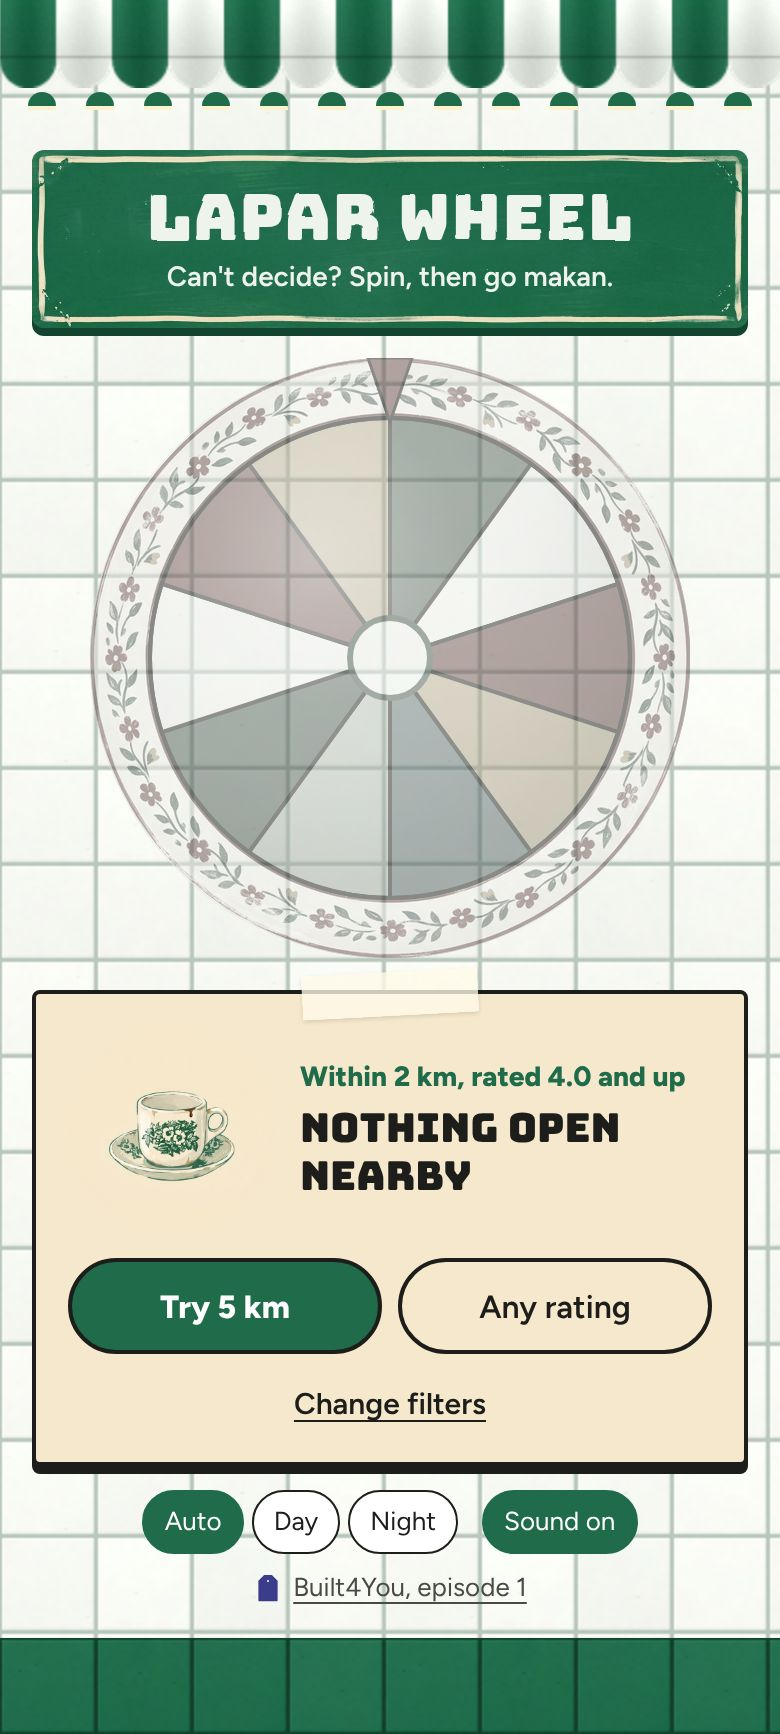
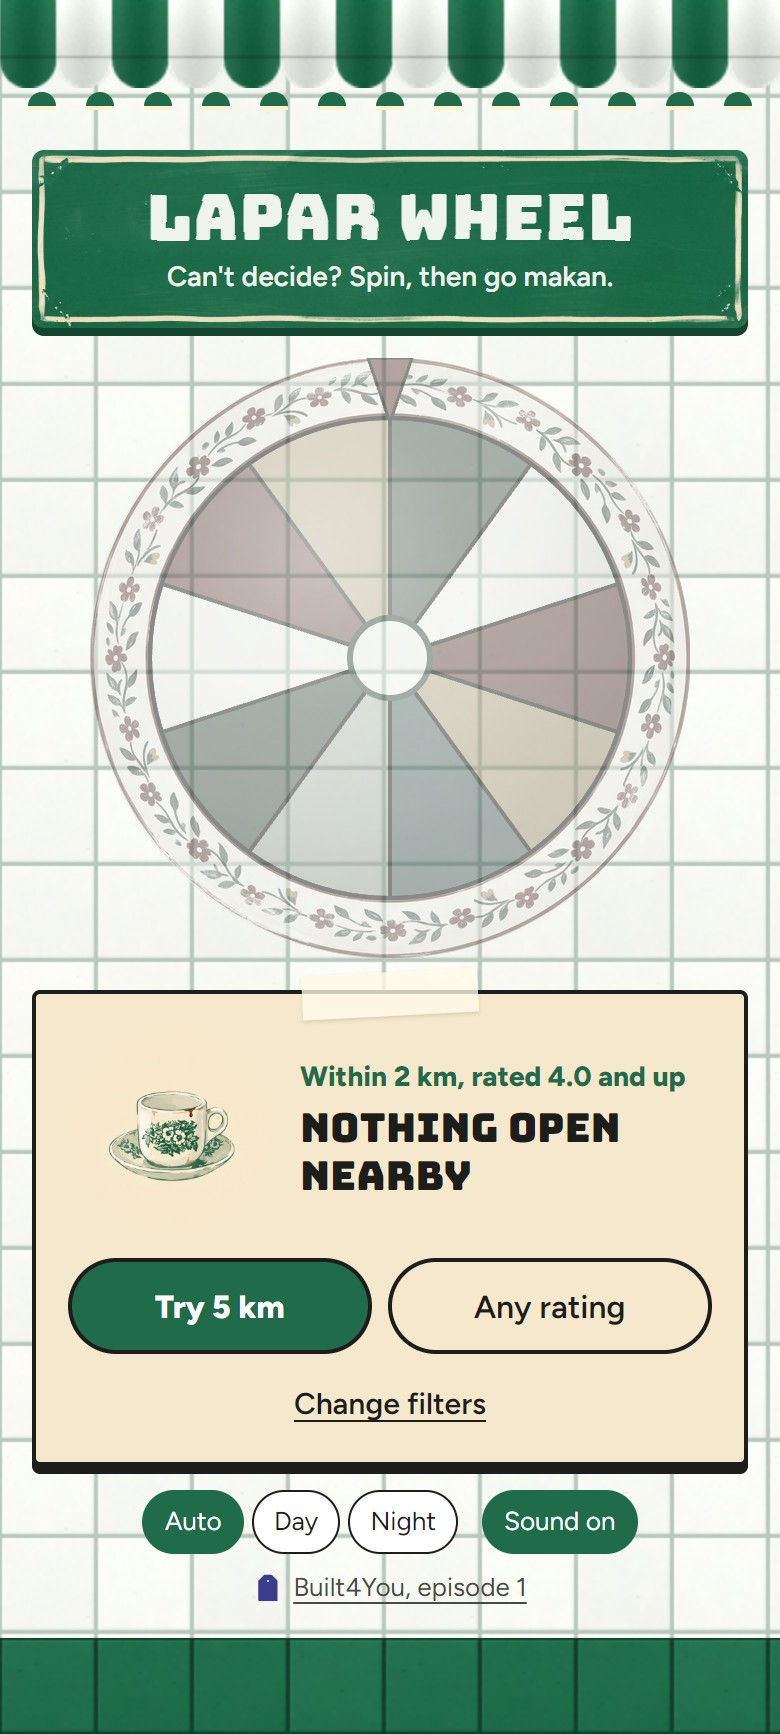
Notice buttons grow to fit and never wrap their labels
Equal columns squeezed "Try location again" beside "Spin" onto two lines
inside a pill. Buttons are now a wrapping flex row: each grows to fill, labels
stay on one line, and two that don't fit stack. Same rule in the spec and the
reference mock; the empty and refused screenshots are re-taken.

diff --git a/docs/redesign/reference.html b/docs/redesign/reference.html
@@ -86,6 +86,8 @@ body{margin:0;background:#8a8a8a;font-family:Figtree,system-ui,sans-serif}
 .notice .btn-primary{background:#1f6b4a;color:#ffffff;border:2px solid #1d1d1b;font-weight:800}
 [data-look="night"] .notice .btn-primary{background:#ff4f8b;color:#1a1530;border-color:#1a1530}
 .notice .btn-outline{background:transparent;color:#1d1d1b;border:2px solid #1d1d1b}
+.nbtns{display:flex;flex-wrap:wrap;gap:8px}
+.nbtns .btn{flex:1 1 auto;white-space:nowrap}
 .linkbtn{align-self:center;background:none;border:0;padding:4px;font:inherit;font-size:15px;font-weight:600;color:#1d1d1b;text-decoration:underline;text-underline-offset:3px}
 .field{display:flex;flex-direction:column;gap:4px}
 .field span{font-size:14px;line-height:20px;color:#4a4a44}
@@ -184,7 +186,7 @@ function notice({ pic, kicker, head, body, buttons = [], link, extra = "" }) {
     </div>
     ${body ? `<p class="nbody">${body}</p>` : ""}
     ${extra}
-    ${buttons.length ? `<div class="${buttons.length > 1 ? "row2" : ""}" style="display:grid;gap:8px">${buttons.map((b, i) => `<button class="btn ${i === 0 ? "btn-primary" : "btn-outline"}">${b}</button>`).join("")}</div>` : ""}
+    ${buttons.length ? `<div class="nbtns">${buttons.map((b, i) => `<button class="btn ${i === 0 ? "btn-primary" : "btn-outline"}">${b}</button>`).join("")}</div>` : ""}
     ${link ? `<button class="linkbtn">${link}</button>` : ""}
   </section>`;
 }

diff --git a/components/Notice.tsx b/components/Notice.tsx
@@ -17,7 +17,7 @@ type Props = {
   kicker?: string;
   headline: string;
   body?: ReactNode;
-  /** The next-step buttons, one row of equal columns, then anything under them. */
+  /** The next-step buttons, sharing a row when they fit, then anything under them. */
   actions: ReactNode;
   children?: ReactNode;
 };
@@ -49,7 +49,8 @@ export function Notice({ picture, kicker, headline, body, actions, children }: P
         </div>
       </div>
       {typeof body === "string" ? <p className="text-notice-body">{body}</p> : body && <div className="text-notice-body">{body}</div>}
-      <div className="grid auto-cols-fr grid-flow-col gap-2">{actions}</div>
+      {/* Each button grows to fill and never wraps its label; two that don't fit stack. */}
+      <div className="flex flex-wrap gap-2 *:flex-auto *:whitespace-nowrap">{actions}</div>
       {children}
     </div>
   );

diff --git a/REVIEW_LOG.md b/REVIEW_LOG.md
@@ -4,6 +4,7 @@ Mistakes caught during review, mine and the AI's. Newest first.
 
 | Date | Where | Mistake | Caught by | Fix |
 |---|---|---|---|---|
+| 2026-11-04 | `docs/redesign.md` Notices | Notice buttons were equal columns, so a longer label ("Try location again" beside "Spin") wrapped onto two lines inside a pill | Claude Code, refused-notice screenshots | Buttons grow to fit, labels never wrap, and two that don't fit stack |
 | 2026-11-04 | `docs/redesign.md` Notices, `components/NearMe.tsx` | The redesign spec put a bordered 160px picture inside a bordered panel, with one line of copy and the Spin button left under it, so the empty and out-of-spins notices looked broken, read like errors and invited spins that couldn't work | Me, reviewing PR 1 on my phone | Notices became a taped-up paper notice with a headline, the filters or reset time, and their own next-step buttons; the Spin button hides while one shows |
 | 2026-11-04 | Redesign kit (`public/`, repo root) | Two overlapping zips from the design session: the first one's extras (`public/icons/`, `public/og-day.jpg`, `ASSETS.md`) were unzipped into the repo alongside the kit and would have shipped from `public/` | Claude Code, planning the redesign PR | Deleted them; the kit is the only source, and docs/redesign.md is the one asset list |
 | 2026-11-04 | `app/globals.css` (type roles) | Named the Spin type role `text-spin` while `--color-spin` already existed, so Tailwind read `text-spin` as the colour and the Spin label was red on red. Tests and build passed | Claude Code, browser check at 390px | Renamed the role `text-spin-label`; no type role shares a name with a colour. |

diff --git a/docs/redesign.md b/docs/redesign.md
@@ -120,7 +120,7 @@ A notice replaces the summary and the Spin button whenever there's no pick, and 
 - Tape: an 88×22px strip centred on the top edge (top −11px), rotated −3°, `rgba(255,250,232,0.78)`, shadow `0 1px 2px rgba(0,0,0,0.12)`, `aria-hidden`.
 - Top row: the picture (104px, empty `alt`, edges feathered with `mask-image: radial-gradient(circle, #000 58%, transparent 71%)`), then a column with the kicker (Figtree 800, 14/18; day `#1f6b4a`, night `#5b3fd9`) and the headline (`<h2>`, Bungee 20/24).
 - An optional body line (Figtree 15/21).
-- Buttons: up to two in one row of equal columns, 48px tall, pill. The first is primary (day: `#1f6b4a` with white text; night: `#ff4f8b` with `#1a1530` text). The second is an outline: 2px `#1d1d1b`, transparent, `#1d1d1b` text, in both looks.
+- Buttons: up to two, in a wrapping flex row with an 8px gap. Each grows to fill (`flex: 1 1 auto`) and its label never wraps (`white-space: nowrap`), so two share a row when they fit and otherwise each takes a full row. 48px tall, pill. The first is primary (day: `#1f6b4a` with white text; night: `#ff4f8b` with `#1a1530` text). The second is an outline: 2px `#1d1d1b`, transparent, `#1d1d1b` text, in both looks.
 - Contrast on the paper: ink 13.9, day kicker 5.3, night kicker 5.5. Add them to the contrast test.
 
 ### The wheel while a notice shows

diff --git a/docs/redesign/README.md b/docs/redesign/README.md
@@ -3,7 +3,7 @@
 How Lapar Wheel should look, as of 2026-11-04.
 
 - `../redesign.md` is the spec and the source of truth. If anything here disagrees with it, the spec wins: ask before guessing.
-- `reference.html` is a static mock of every screen in both looks. Open it from the repo (it loads the real fonts and images from `public/`) and pick a screen from the bar at the top, or use `?s=<screen>&look=<day|night>`. It isn't part of the app and isn't built or shipped.
+- `reference.html` is a static mock of every screen in both looks. Open it from the repo (it loads the real fonts and images from `public/`) and pick a screen from the bar at the top, or use `?s=<screen>&look=<day|night>`. Add `&shot=1` to hide the screen bar for screenshots. It isn't part of the app and isn't built or shipped.
 - `screens/` holds a screenshot of each screen at 390px wide (2x), named `<look>-<screen>.jpg`. Screens taller than 844px are shown at full height: the page scrolls there.
 - `../redesign-prototype.dc.html` is the earlier clickable prototype's source. Use it only for the spin code (`startSpin`, the swipe handlers, `tick`). Its footer and notices are out of date.
 
